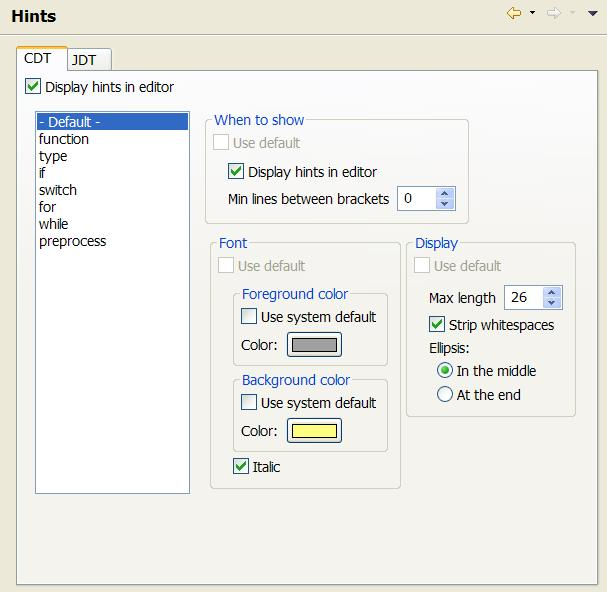
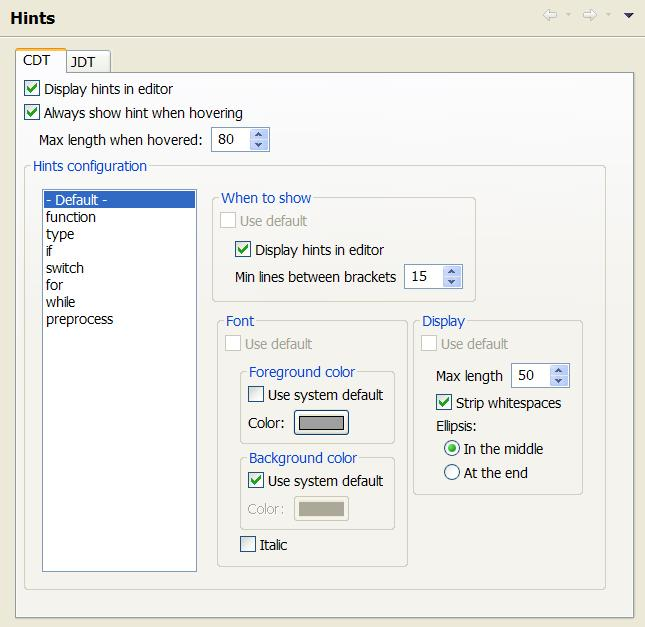
Updated help

diff --git a/Bracketeer/doc/highlight_preferences_page.html b/Bracketeer/doc/highlight_preferences_page.html
@@ -1,5 +1,6 @@
 <!DOCTYPE html PUBLIC "-//W3C//DTD HTML 4.01//EN" "http://www.w3.org/TR/html4/strict.dtd">
 <html><head>
+
 <meta content="text/html; charset=ISO-8859-1" http-equiv="content-type"><title>Highlight preferences page</title></head><body>
   
 <h1>Highlighting preferences page</h1>
@@ -38,6 +39,23 @@ hovered with the mouse). "Pair 1" is the 1st pair surrounding the
 cursor and "Pair 4" is the 4th pair.<br>
 "<span style="font-weight: bold;">Missing pair</span>" - This is the color of brackets which have no pair. All such brackets in the document would be highlighted.<br>
 <br>
+<span style="text-decoration: underline;">Background color styles</span><br>
+"<span style="font-weight: bold;">None</span>" - Draw transparent background (in other words, ignore the background color selected, and don't draw a background)<br>
+"<span style="font-weight: bold;">Solid</span>" - Draw a rectangle around the character and fill it with the background color (A, solid, black brackground looks like this: <img style="width: 11px; height: 19px;" alt="solid style example" src="solidStyleExample.JPG">).<br>
+"<span style="font-weight: bold;">Outline</span>" - Draw a rectangle
+around the character, color its outline is the background color. Only
+the outline is drawn, the inside of the rectangle is transparent (An,
+outlined, black brackground looks like this: <img style="width: 11px; height: 21px;" alt="Outline style example" src="outlineStyleExample.JPG">).<br>
+<br>
+<span style="text-decoration: underline;">Annotation</span><br>
+"<span style="font-weight: bold;">Enable annotation</span>" - This
+option is applicable only for "Missing pair", if enabled, in addition
+to highlighting of the brackt whose missing a pair, an annotation would
+appear in the "overview ruler" and "vertical ruler". The annotation
+preferences (such as color, etc..) is configured in the "Annotations
+preferences page" (Preferences: General-&gt;Editors-&gt;Text
+Editors-&gt;Annotations) under the "Bracket missing pair" annotation
+type.<br>
 <h2><a name="SurroundingBrackets"></a>Surrounding brackets</h2>
 This section is dedicated for bracket pairs surrounding the cursor. <br>
 <br>
@@ -45,12 +63,25 @@ The "Enable" checkbox can be used to enable/disable highlighting of
 surrounding brackets. You can do this also using the toolbar button <img style="width: 18px; height: 14px;" alt="" src="../icons/surrounding.gif"> or by pressing Ctrl+B, Ctrl+S (the "Enable surrounding brackets" command).<br>
 <br>
 You can choose which bracket pairs would highlighted ("{" , "[", etc..) and how many.<br>
+You can also ignore pairs whose brackets are close to eachother.<br>
+<h2><a name="MouseHover"></a>Mouse hover</h2>"<span style="font-weight: bold;">Show matching pairs of the brackets near the hover point</span>"&nbsp;
+- If enabaled, when you hover near a bracket, the bracket pair will be
+highlighted automatically (up to 4 pairs can be highlighted at once).
+You can also enable/disable this option using the toolbar button <img style="width: 18px; height: 16px;" alt="" src="../icons/hoveredBrackets.gif"> or by using a key binding you define for the "Enable hovered brackets" command.<br>
 <br>
-<h2><a name="MouseHover"></a>Mouse hover</h2>
-When you hover over a bracket, the bracket pair can be highlighted automatically.<br>
-You can enable/disable this option using the "Enable" checkbox. You can do this also using the toolbar button <img style="width: 18px; height: 16px;" alt="" src="../icons/hoveredBrackets.gif"> or by using a key binding you define for the "Enable hovered brackets" command.<br>
+"<span style="font-weight: bold;">Show popup with the pair of the hovered bracket (if not visible)</span>"
+- If enabled, when hovering over a "}" (a closing curly bracket) whose
+matching opening bracket (i.e. "{") is outside the visible screen
+bounderies, a popup window will appear, above the editor, with 3 lines
+surrounding the opneing bracket (one line before and one line after).<br>
+<br>
+"<span style="font-weight: bold;">Unless there is a hint on the closing bracket</span>"
+- If enabled, a popup, as descibed in the paragraph above, will not
+appear if the closing bracket has a "hint". This option is applicable
+only if "Show popup with the pair of the hovered bracket (if not
+visible)" is enabled. <br>
 <br>
 <br>
 This is how the preferences page looks like:<br>
-<img style="width: 393px; height: 508px;" alt="This is how the preferences page looks like" src="BracketHighlightingPref.JPG"><br>
+<img style="width: 646px; height: 630px;" alt="This is how the preferences page looks like" src="BracketHighlightingPref.JPG"><br>
 </body></html>

diff --git a/Bracketeer/doc/hints_preferences_page.html b/Bracketeer/doc/hints_preferences_page.html
@@ -1,5 +1,6 @@
 <!DOCTYPE html PUBLIC "-//W3C//DTD HTML 4.01//EN" "http://www.w3.org/TR/html4/strict.dtd">
-<html><head><meta content="text/html; charset=ISO-8859-1" http-equiv="content-type"><title>Hints preferences page</title></head><body>
+<html><head>
+<meta content="text/html; charset=ISO-8859-1" http-equiv="content-type"><title>Hints preferences page</title></head><body>
 <h1>Hints preferences page</h1>
 "Hints" are comments automatically added to the editor after "closing
 brackets" (mainly "}") to state which statement they are closing.<br>
@@ -31,8 +32,18 @@ and the display attributes for each statement type.<br>
 <br>
 Notice that the configurations are per editor type (Java, C/C++, etc...) according to the tab selected.<br>
 <br>
-<a name="EnableHints"></a>The "Display hint in editor" checkbox can be used to enable/disable showing hint. You can do this also using the toolbar button <img style="border: 1px solid ; width: 16px; height: 15px;" alt="" src="../icons/hint.gif" hspace="0" vspace="0"> or by pressing Ctrl+B, Ctrl+H (the "Enable hints in editor" command).<br>
+<a name="EnableHints"></a>The "<span style="font-weight: bold;">Display hint in editor</span>" checkbox can be used to enable/disable showing hint. You can do this also using the toolbar button <img style="border: 1px solid ; width: 16px; height: 15px;" alt="" src="../icons/hint.gif" hspace="0" vspace="0"> or by pressing Ctrl+B, Ctrl+H (the "Enable hints in editor" command).<br>
 <br>
+The "<span style="font-weight: bold;">Always show hint when hovering</span>"
+checkbox can be used to disable/enable showing a hint when hovring over
+a "}". If enabled, the hint would be shown even if the hint's "Display
+hints in editor" is disabled or if there are less than "Min lines
+between brackets" lines between the opening and closiing brackets.<br>
+<br>
+"<span style="font-weight: bold;">Max length when hovered</span>" -
+When hovering over a "}", the hint's length would be this value
+(overriding the the hint's "Max length" parameter). This setting is
+applicable only if "Always show hint when hovering" is enabled.
 <h2>Using this preferences page</h2>
 First select the "statement type" on the left and then configure it on the right.<br>
 <br>
@@ -66,7 +77,7 @@ shortened using the selected ellipsis function.<br>
 <br>
 <br>
 This is how the preferences page looks like:<br>
-<img style="width: 607px; height: 592px;" alt="This is how the preferences page looks like" src="hintsPref.JPG"><br>
+<img style="width: 645px; height: 627px;" alt="This is how the preferences page looks like" src="hintsPref.JPG"><br>
 
 
 
